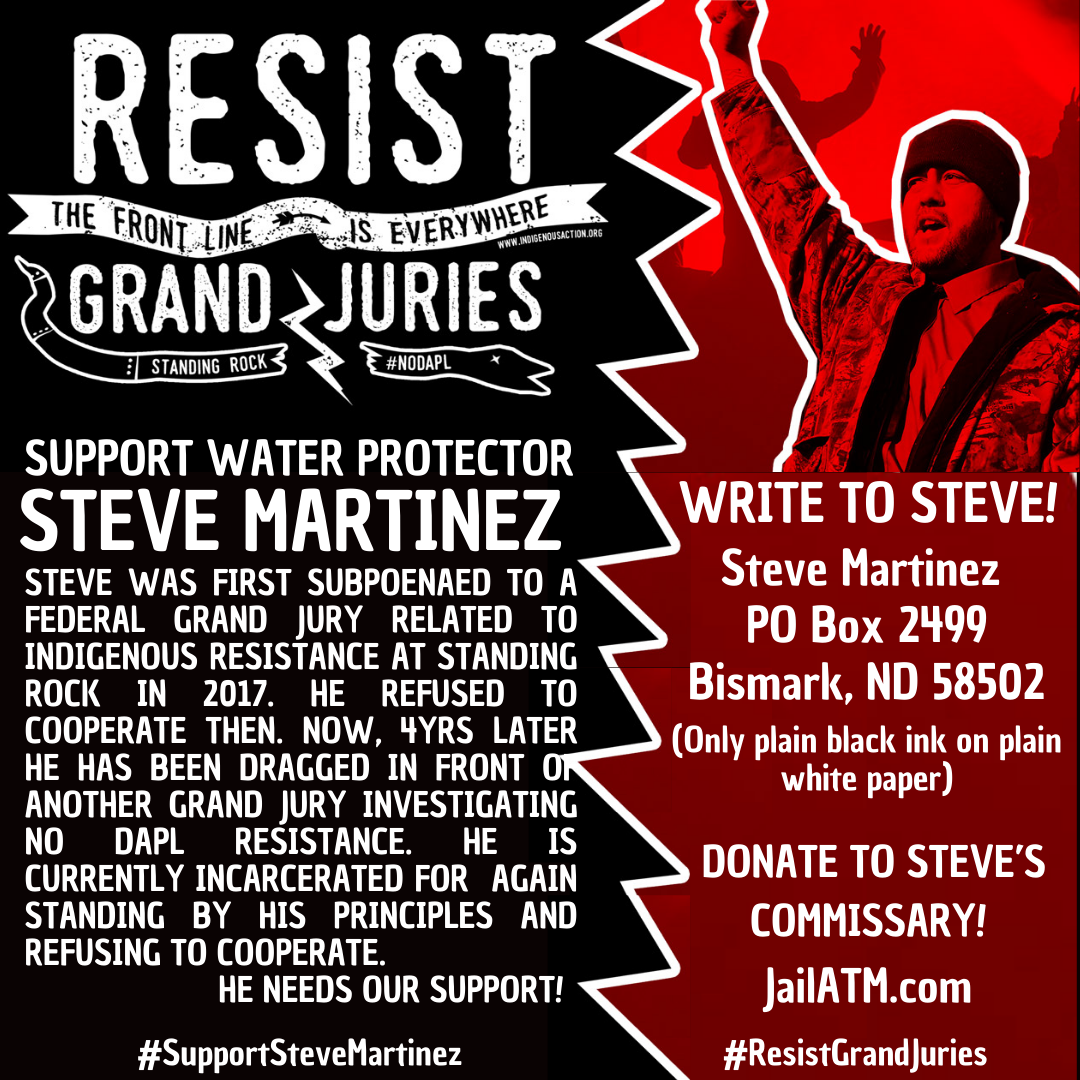
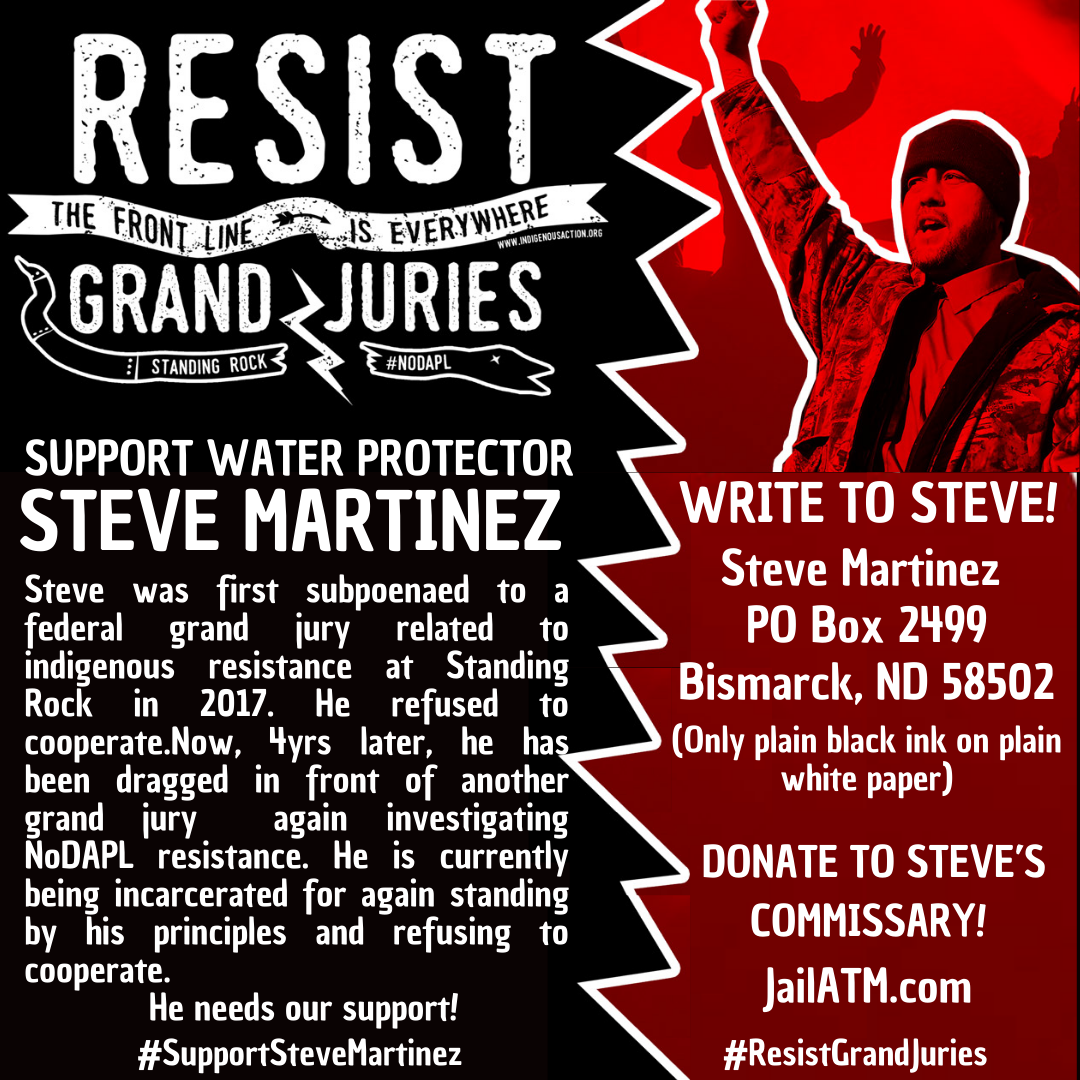
update spelling

Changed region(s): [[0.0, 0.5194, 0.55, 0.9472], [0.6111, 0.6111, 0.9778, 0.6722]]

diff --git a/index.html b/index.html
@@ -8,7 +8,11 @@
 <h1> Support Water Protector Steve Martinez</h1>
 <img style="width:100%;" src='img/steve.jpg' />
 <p>
-Steve was first subpoenaed to a federal grand jury related to indigenous resistance at Standing Rick in 2017. He refused to cooperate then. Now, 4 years later, he has been dragged in front of another grand jury investigating NO DAPL resistance. He is currently incarcerated for again standing by his principles and refusing to cooperate. 
+Steve was first subpoenaed to a federal grand jury related to indigenous
+ resistance at Standing Rock in 2017. 
+He refused to cooperate then. 
+Now, 4 years later, he has been dragged in front of another grand jury investigating NO DAPL resistance. He is currently incarcerated for again standing by his principles and refusing to cooperate. 
+
 </p>
 
 <h2> Write to Steve</h2>
@@ -17,7 +21,7 @@ Steve Martinez
 <br>
 PO Box 2499
 <br>
-Bismark, ND 58502
+Bismarck, ND 58502
 <br>
 (Only plain black ink on plain white paper)
 </p>
